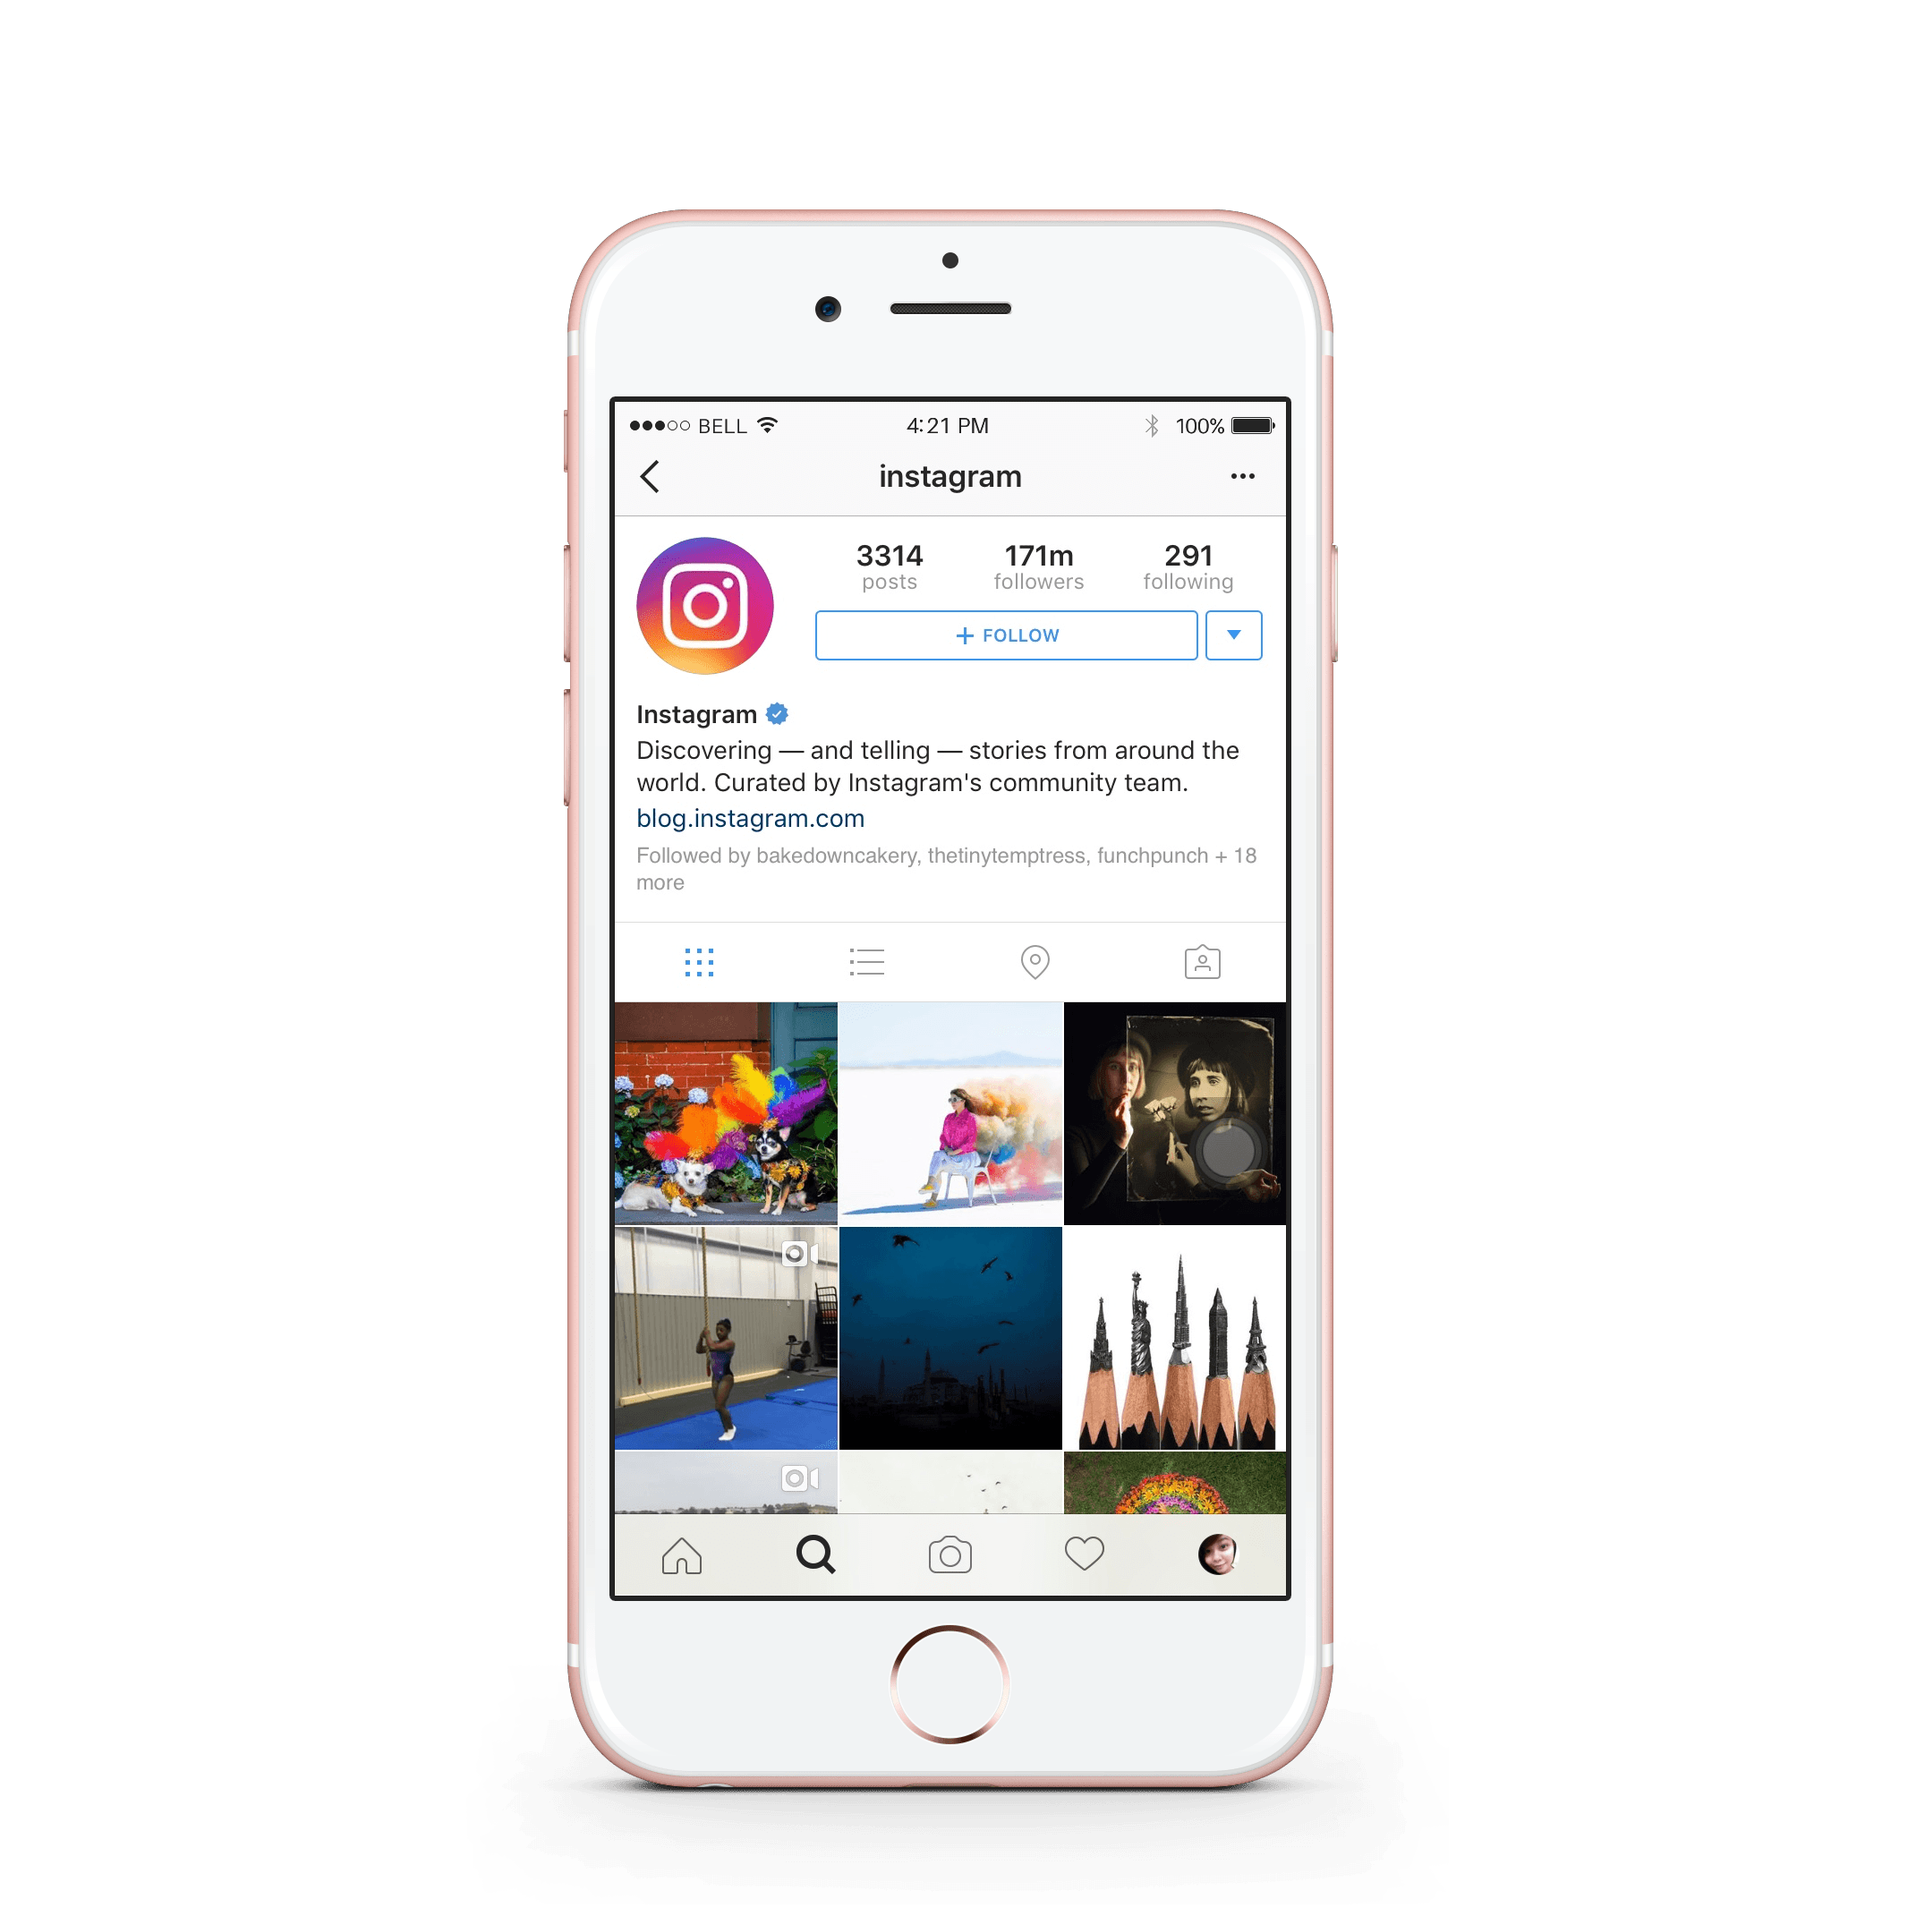
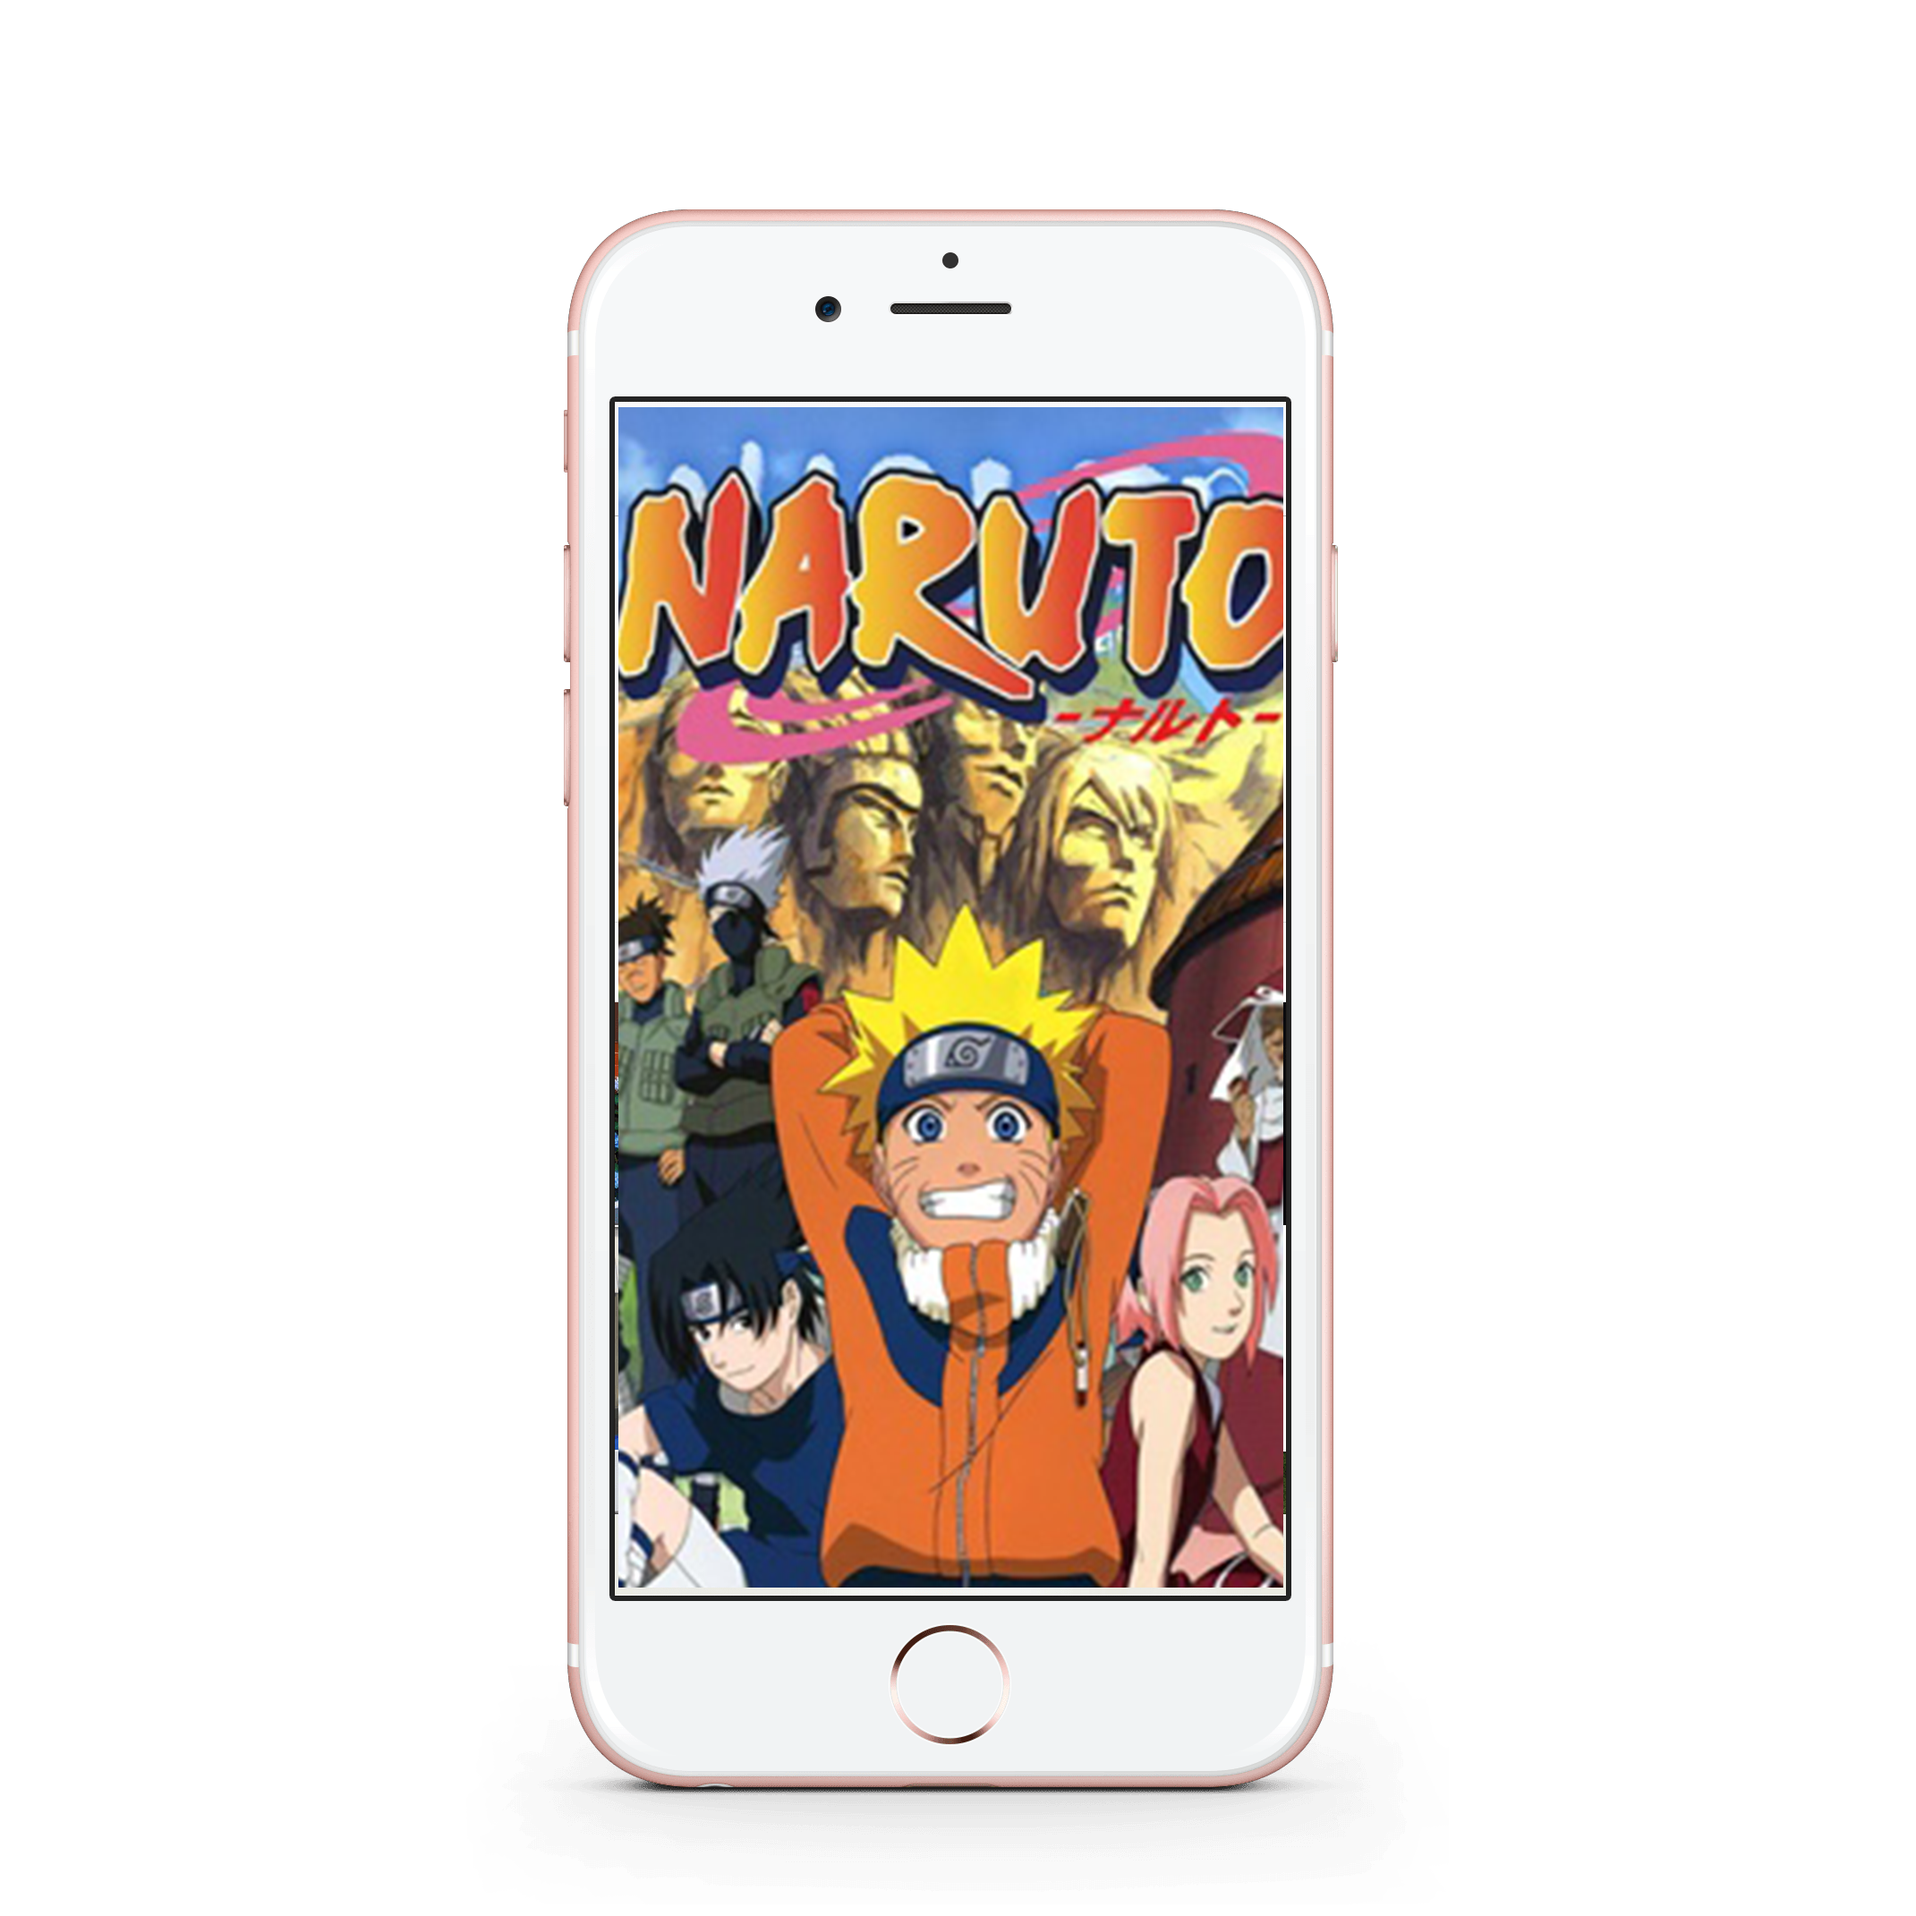
personalizado com o anime naruto

Changed region(s): [[0.3083, 0.185, 0.6782, 0.8323]]

diff --git a/index.html b/index.html
@@ -4,7 +4,7 @@
     <meta charset="utf-8" />
     <meta name="viewport" content="width=device-width, initial-scale=1.0" />
     <link rel="stylesheet" href="style.css" />
-    <title>Instagram</title>
+    <title>Naruto</title>
   </head>
   <body>
     <div class="instagram-wrapper">
@@ -21,15 +21,15 @@
           <div class="profile-photo">
             <img src="image/perfil-instagram.jpg" alt="foto de perfil" />
           </div>
-          <a href="#" class="instagram-login">Continue como yurii_silveira</a>
-          <a href="#" class="instagram-logout">Remover conta</a>
+          <a href="#" class="instagram-login">Continue como o ninja yurii_silveira</a>
+          <a href="#" class="instagram-logout">Trocar Ninja</a>
         </div>
         <div class="group">
-          <p class="not-account">Não é yurii_silveira?</p>
+          <p class="not-account">Não é o ninja yurii_silveira?</p>
           <p class="notaccount">
-            <span class="link-blue">Alterna contas</span>
+            <span class="link-blue">Alterna ninja</span>
             ou 
-            <span class="link-blue">Inscreva-se</span>
+            <span class="link-blue">Torne-se um ninja</span>
           </p>
         </div>
         <div class="get-the-app">

diff --git a/style.css b/style.css
@@ -10,7 +10,7 @@
 body {
   width: 100%;
   min-height: 100%;
-  background-color: rgb(0, 0, 0);
+  background-color: rgb(133, 67, 14);
   margin: 0;
   padding: 0;
   display: flex;
@@ -53,7 +53,7 @@ body {
   background-color: #ffffff;
   width: 100%;
   padding: 1.3rem 0;
-  border: 1px solid lightgray;
+  border: 3px solid #f67700;
 }
 
 .group:nth-child(1) {
@@ -77,14 +77,14 @@ body {
 }
 
 .instagram-login {
-  background-color: #0095f6;
+  background-color: #f67700;
   color: #ffffff;
   padding: 8px;
   border-radius: 4 px;
 }
 
 .instagram-logout {
-  color: #0095f6;
+  color: #f67700;
   margin-top: 1rem;
 }
 
@@ -93,7 +93,7 @@ body {
 }
 
 .link-blue {
-  color: #0095f6;
+  color: #f67700;
 }
 
 .get-the-app {
@@ -102,7 +102,11 @@ body {
   align-items: center;
   justify-content: center;
   width: 100%;
-  padding: 1.3rem 0;
+  padding: 1.3rem;
+}
+
+.get-app {
+  color: #000000;
 }
 
 .download {
@@ -115,7 +119,7 @@ body {
 
 .app-download {
   height: 3rem;
-  width: 10rem;
+  width: 10.2rem;
   background-size: cover;
 }
 
